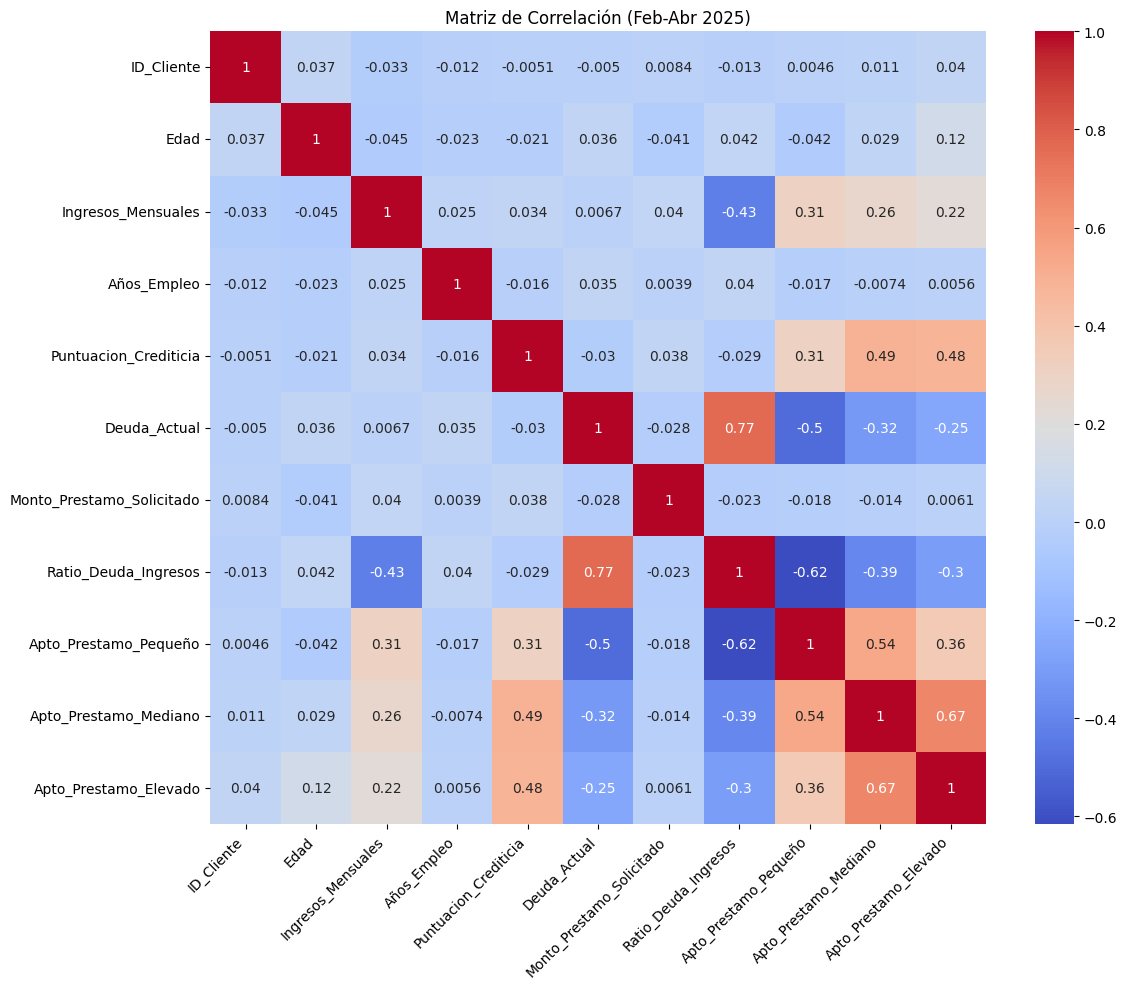
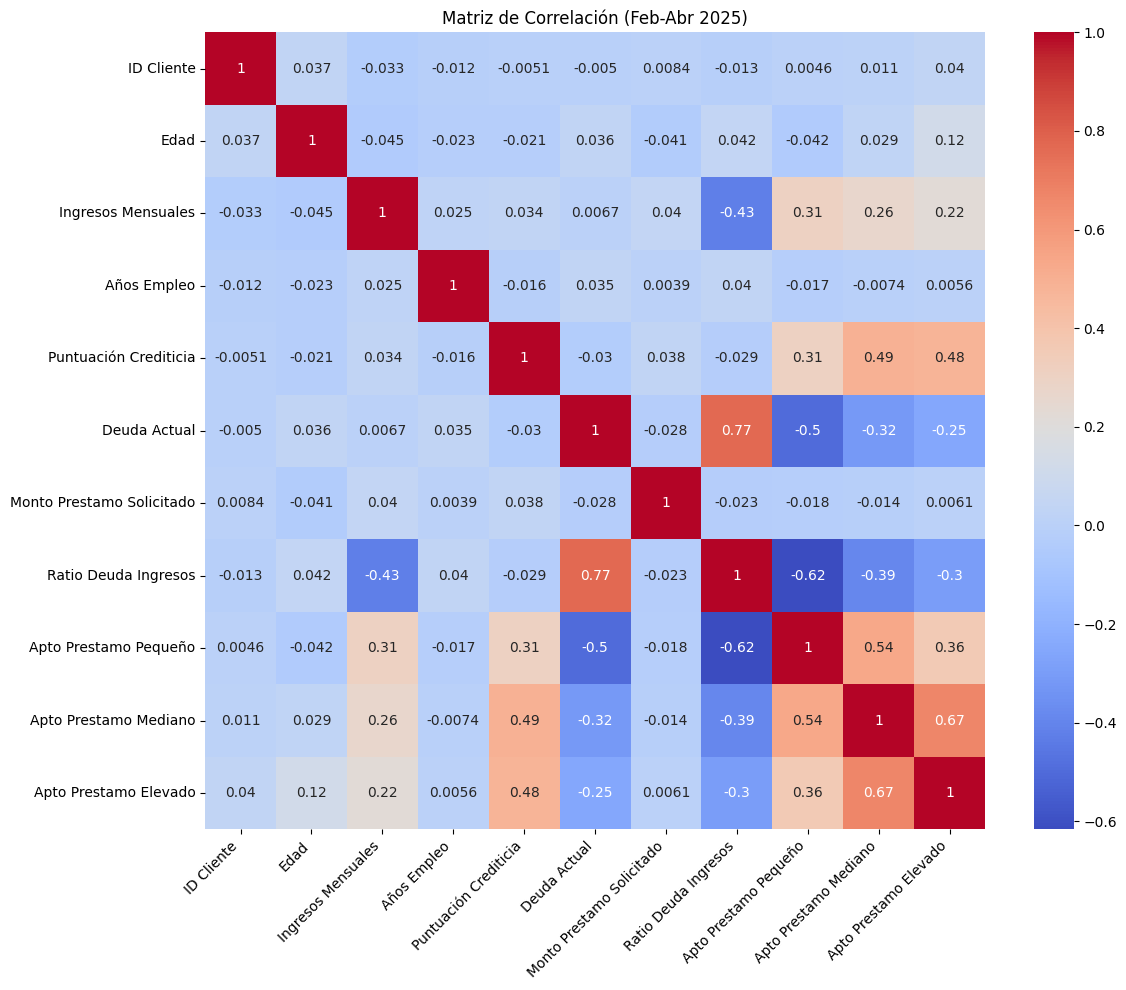
update files and correlation matrix

diff --git a/explore_data.py b/explore_data.py
@@ -2,7 +2,7 @@ import pandas as pd
 import seaborn as sns
 import matplotlib.pyplot as plt
 
-df = pd.read_csv('clientes_ficticios_abril2025.csv')
+df = pd.read_csv('clientes_ficticios_abril2025.csv', encoding='utf-8')
 print(df.describe())
 
 # Histograma de Ingresos Mensuales (promedio feb-mar-abr 2025)
@@ -46,11 +46,28 @@ plt.show()
 
 # Matriz de correlación
 numeric_df = df.select_dtypes(include=['int32', 'int64', 'float64'])
+
+# Renombrar las columnas de numeric_df para eliminar guiones bajos
+numeric_df = numeric_df.rename(columns={
+    'ID_Cliente': 'ID Cliente',
+    'Edad': 'Edad',
+    'Ingresos_Mensuales': 'Ingresos Mensuales',
+    'Años_Empleo': 'Años Empleo',
+    'Puntuacion_Crediticia': 'Puntuación Crediticia',
+    'Deuda_Actual': 'Deuda Actual',
+    'Monto_Prestamo_Solicitado': 'Monto Prestamo Solicitado',
+    'Ratio_Deuda_Ingresos': 'Ratio Deuda Ingresos',
+    'Apto_Prestamo_Pequeño': 'Apto Prestamo Pequeño',
+    'Apto_Prestamo_Mediano': 'Apto Prestamo Mediano',
+    'Apto_Prestamo_Elevado': 'Apto Prestamo Elevado'
+})
+
+# Matriz de correlación sin guiones
 plt.figure(figsize=(12, 10))
 sns.heatmap(numeric_df.corr(), annot=True, cmap='coolwarm')
 plt.title('Matriz de Correlación (Feb-Abr 2025)')
 plt.xticks(rotation=45, ha='right')
 plt.yticks(rotation=0)
 plt.tight_layout()
-plt.savefig('correlation_matrix_feb_apr2025.png', bbox_inches='tight')  # Nombre ajustado
+plt.savefig('correlation_matrix_feb_apr2025.png', bbox_inches='tight')
 plt.show()

diff --git a/generate_data.py b/generate_data.py
@@ -37,6 +37,6 @@ df['Apto_Prestamo_Elevado'] = ((df['Ingresos_Mensuales'] > 557500) &
                                (df['Ratio_Deuda_Ingresos'] < 0.35) &
                                (df['Edad'].between(25, 55))).astype(int)
 
-df.to_csv('clientes_ficticios_abril2025.csv', index=False)
+df.to_csv('clientes_ficticios_abril2025.csv', index=False, encoding='utf-8')
 print(df.head())
 print(df.describe())
